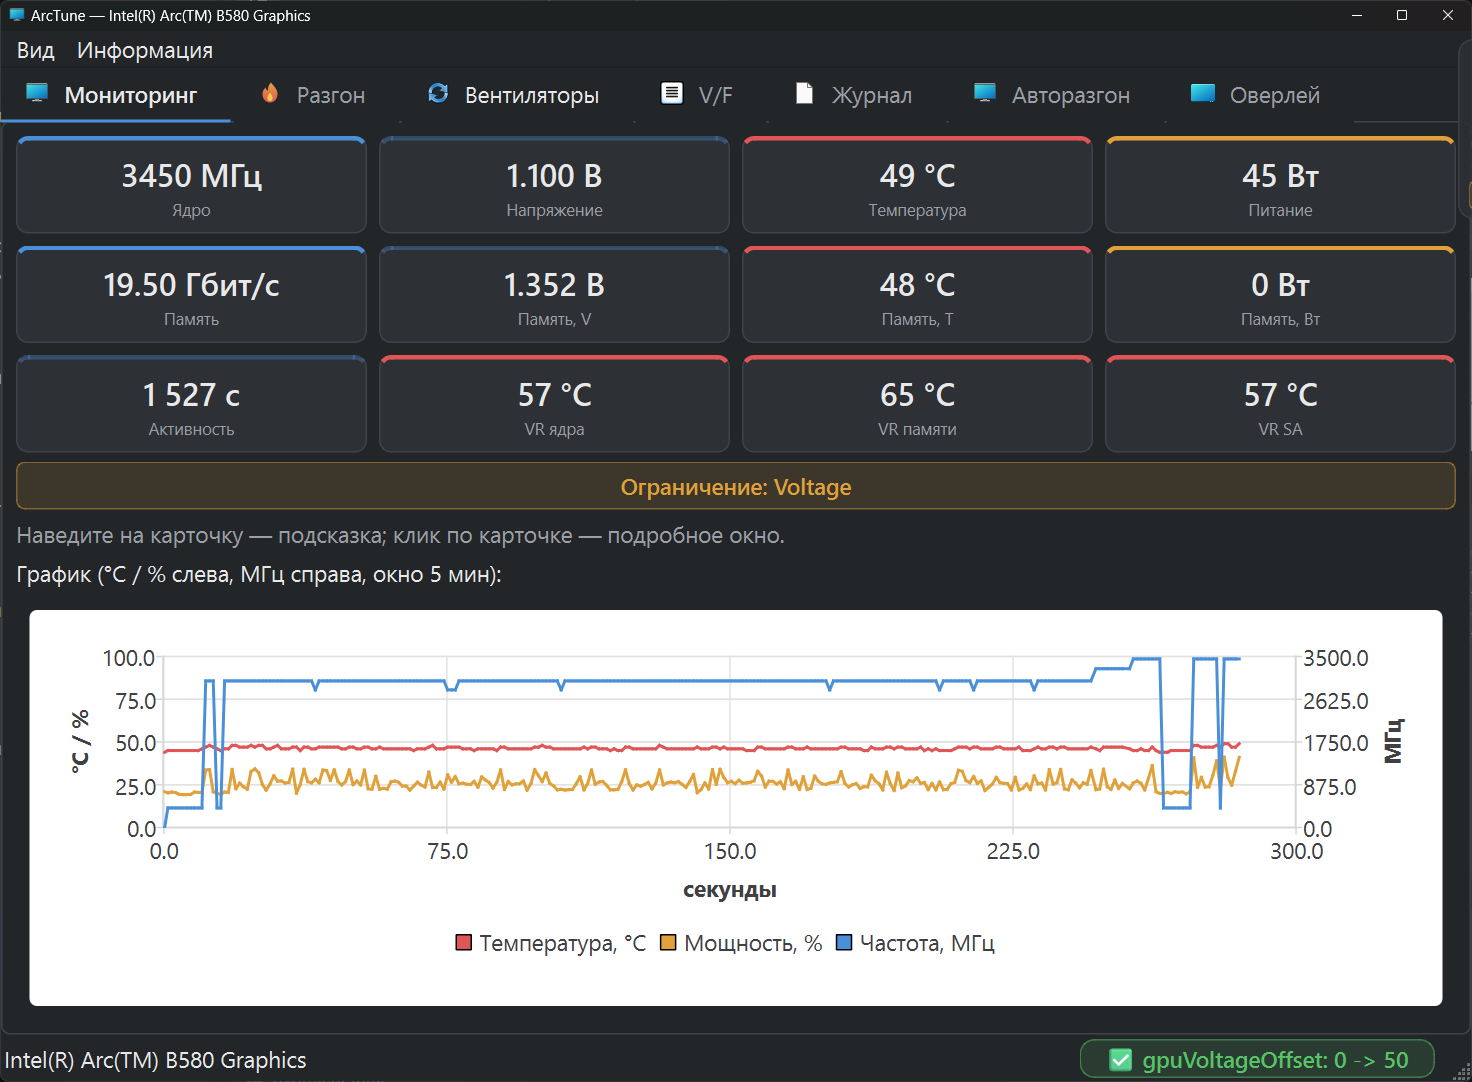
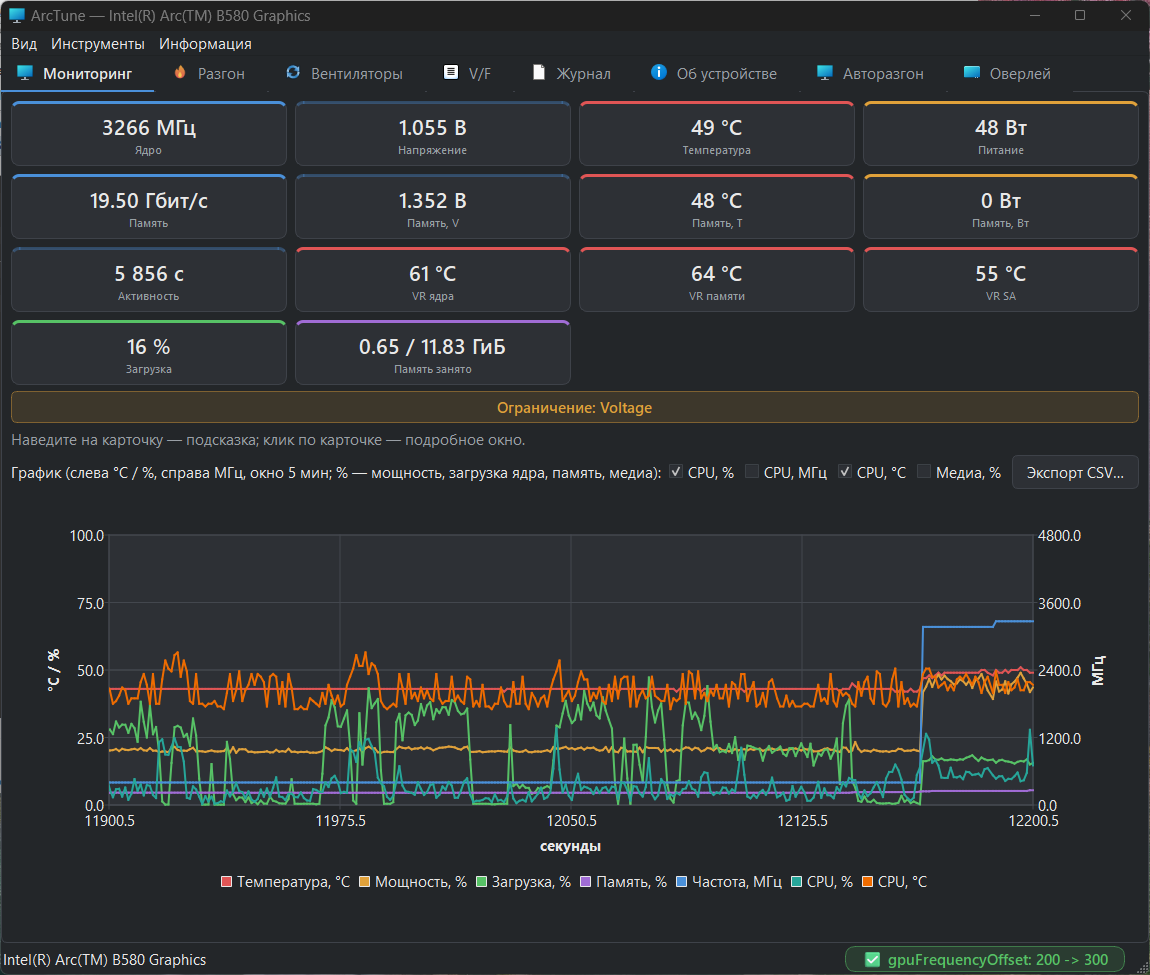
docs(assets): обновить скриншоты мониторинга и HUD, добавить V/F
- preview-monitoring.png: свежий кадр вкладки "Мониторинг" (1150x975)
- preview-overlay-hud.png: новый HUD оверлея (135x604, крупнее и читабельнее)
- preview-vf.png: вкладка V/F с тенью кривой (1150x975), новая
- README/README.en: блок превью дополнен скриншотом V/F

Assisted-by: MiMo

diff --git a/README.md b/README.md
@@ -75,7 +75,10 @@ Intel Graphics Software, но из кода: лимит питания, напр
   <img src="assets/preview-overclock.png" width="420" alt="Вкладка «Разгон»">
 </p>
 <p align="center">
+  <img src="assets/preview-vf.png" width="420" alt="Вкладка «V/F»">
   <img src="assets/preview-overlay-settings.png" width="420" alt="Вкладка «Оверлей»">
+</p>
+<p align="center">
   <img src="assets/preview-overlay-hud.png" width="420" alt="HUD оверлея">
 </p>
 

diff --git a/README.en.md b/README.en.md
@@ -74,7 +74,10 @@ journaling behave identically for all cards.
   <img src="assets/preview-overclock.png" width="420" alt="Overclock tab">
 </p>
 <p align="center">
+  <img src="assets/preview-vf.png" width="420" alt="V/F tab">
   <img src="assets/preview-overlay-settings.png" width="420" alt="Overlay settings tab">
+</p>
+<p align="center">
   <img src="assets/preview-overlay-hud.png" width="420" alt="Overlay HUD">
 </p>
 
